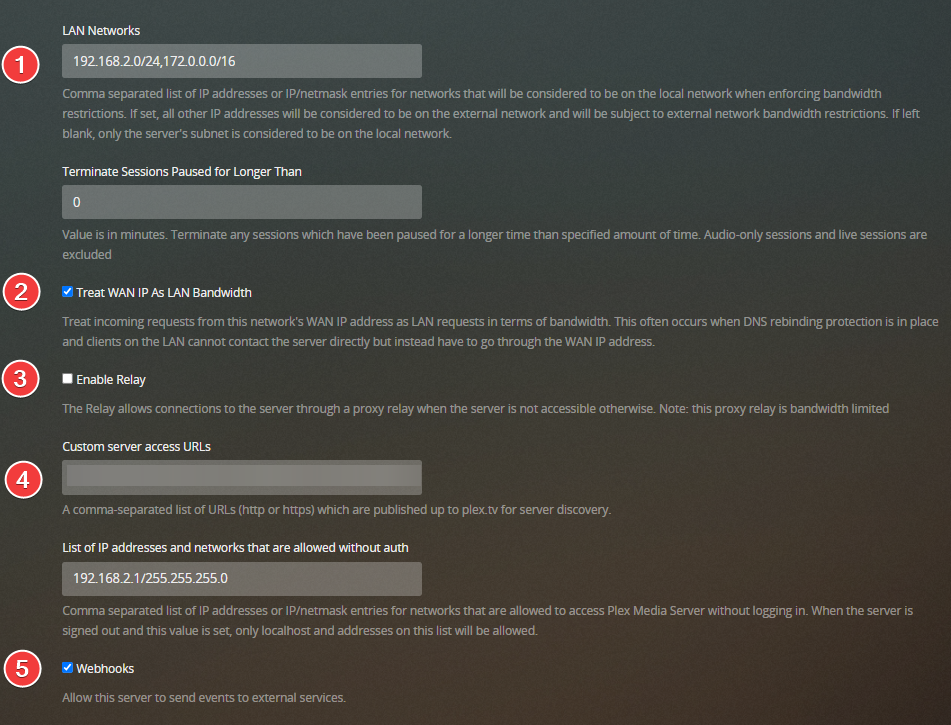
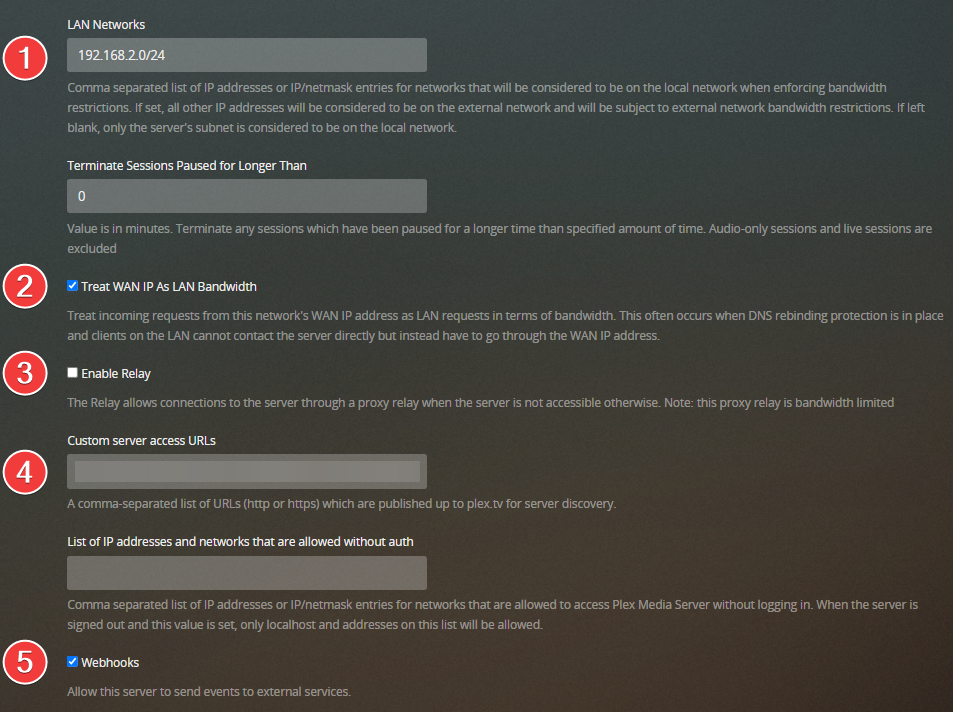
Removed: docker ip/netmask

Changed region(s): [[0.0, 0.0309, 1.0, 0.9888]]

diff --git a/docs/Plex/Tips/Plex-tips.md b/docs/Plex/Tips/Plex-tips.md
@@ -152,7 +152,7 @@ Not needed if you use the new Plex agents, The new agent settings are now “per
 1. It lets you specify which IP addresses or networks will be considered to be “local” to you.
 
     !!! check ""
-        **Suggested: `Your local IP/netmasks`** *and if using docker* **`Your docker IP/netmasks`**
+        **Suggested: `Your local IP/netmasks`**
 
         *If your local devices are seen as remote devices, then this could solve your issue. (Do not include spaces or tabs.)*
 
